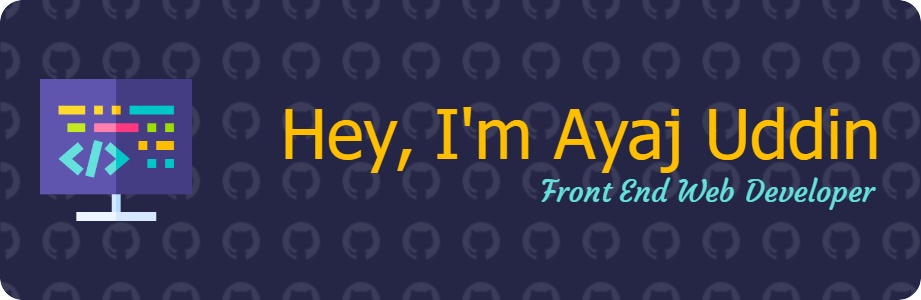
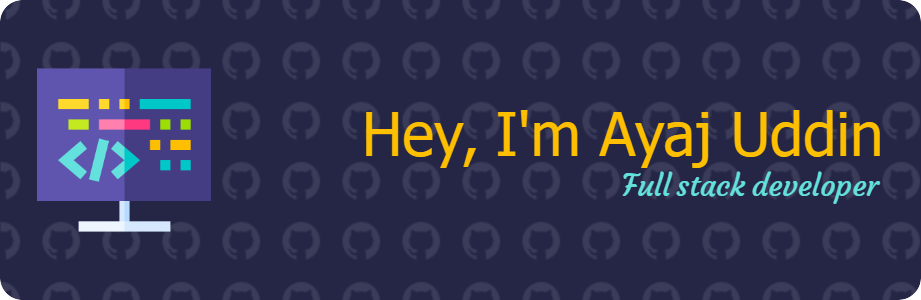
updated profile

Changed region(s): [[0.304, 0.36, 0.9729, 0.69], [0.0304, 0.21, 0.2432, 0.78]]

diff --git a/README.md b/README.md
@@ -5,9 +5,9 @@
 <p align="left"> <img src="https://komarev.com/ghpvc/?username=ayaj-uddin-24&label=Profile%20views&color=0e75b6&style=flat" alt="ayaj-uddin-24" /> </p>
 
 # About Me
-Hi there, I'm Ayaj Uddin and a student of Computer Science and Technology. I'm interested in IT sector. I'm a proficient front-end web developer with expertise in HTML, CSS, JavaScript, React, Bootstrap, and jQuery. With a keen eye for design and a strong grasp of user interface principles, I excel in creating visually stunning and highly functional websites. My skills in modern web development technologies allow me to build responsive and interactive interfaces that enhance user experiences. My dedication to staying abreast of industry trends ensures that his projects are not only visually appealing but also employ the latest advancements in front-end development.
+Hi there, I'm Ayaj Uddin and a student of Computer Science and Technology. I'm interested in IT sector. I'm a proficient full stack web developer with expertise in HTML, CSS, JavaScript, React, Bootstrap, MongoDB, Express, React, Node and more. With a keen eye for design and a strong grasp of user interface principles, I excel in creating visually stunning and highly functional websites. My skills in modern web development technologies allow me to build responsive and interactive interfaces that enhance user experiences. My dedication to staying abreast of industry trends ensures that his projects are not only visually appealing but also employ the latest advancements in front-end development.
 
-Skills: HTML / CSS / Bootstrap / Javascript / React JS / jQuery
+Skills: HTML / CSS / Bootstrap / Javascript / React JS / Node JS / MongoDB / Express JS
 
 - 🔭 I’m currently working on E-commerce Website 
 - 🌱 I’m currently learning MERN stack
@@ -38,7 +38,11 @@ Skills: HTML / CSS / Bootstrap / Javascript / React JS / jQuery
   <img width="12" />
   <img src="https://cdn.jsdelivr.net/gh/devicons/devicon/icons/react/react-original.svg" height="40" alt="react logo"  />
   <img width="12" />
-  <img src="https://cdn.jsdelivr.net/gh/devicons/devicon/icons/jquery/jquery-original.svg" height="40" alt="jquery logo"  />
+  <img src="https://cdn.jsdelivr.net/gh/devicons/devicon/icons/nodejs/nodejs-original.svg" height="40" alt="nodejs logo"  />
+  <img width="12" />
+  <img src="https://cdn.jsdelivr.net/gh/devicons/devicon/icons/express/express-original.svg" height="40" alt="express logo"  />
+  <img width="12" />
+  <img src="https://cdn.jsdelivr.net/gh/devicons/devicon/icons/mongodb/mongodb-original.svg" height="40" alt="mongodb logo"  />
 </div>
 
 ### Others Contribution : 
